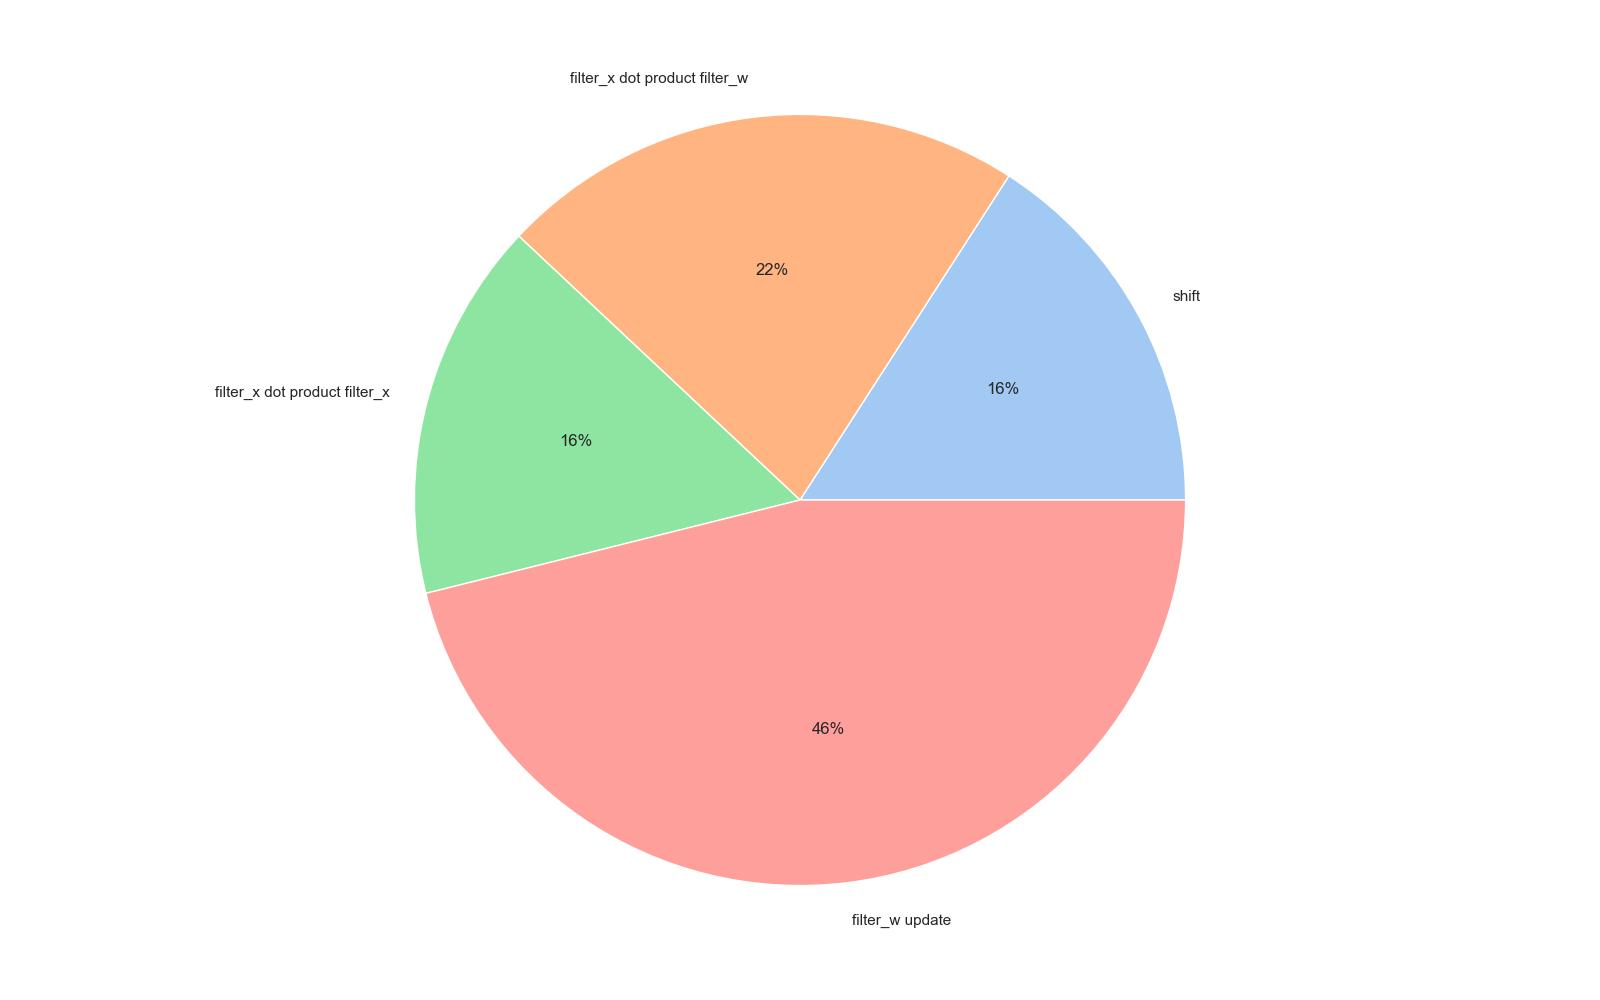
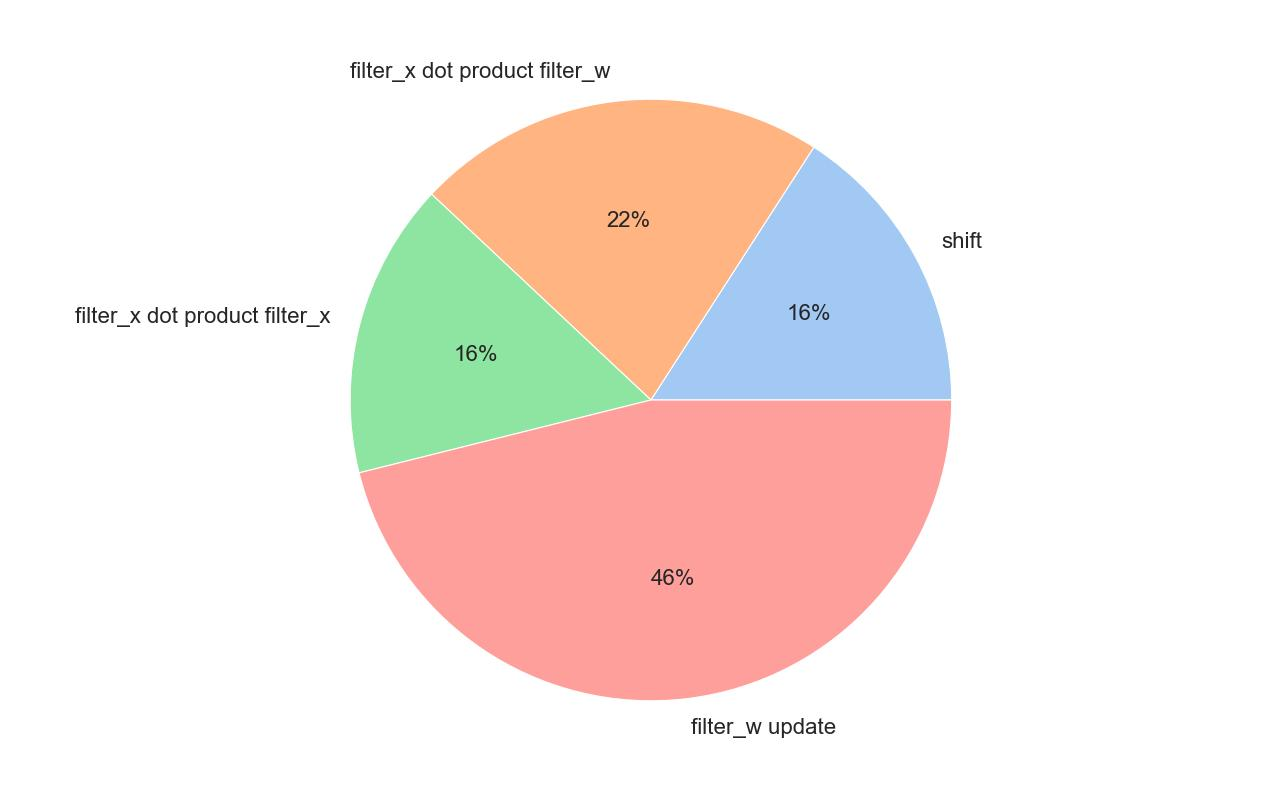
added block form analysis in python

diff --git a/AdaptiveFiltersPy/adaptive_filters_block_form_analysis.py b/AdaptiveFiltersPy/adaptive_filters_block_form_analysis.py
@@ -1,0 +1,106 @@
+"""
+Adaptive Filters Example
+========================
+
+In this example, we will run adaptive filters for system identification.
+"""
+from __future__ import division, print_function
+
+import time
+import os
+import numpy as np 
+from scipy.signal import fftconvolve
+import math
+import matplotlib.pyplot as plt
+import pyroomacoustics as pra
+import pandas as pd
+import seaborn as sns
+
+
+
+# parameters
+length = 16  # the unknown filter length
+n_samples = 2048  # the number of samples to run
+SNR = 15  # signal to noise ratio
+
+# the unknown filter (unit norm)
+w = np.random.randn(length)
+
+w /= np.linalg.norm(w)
+
+# create a known driving signal
+x = np.random.randn(n_samples)
+
+
+# convolve with the unknown filter
+d_clean = fftconvolve(x, w)[:n_samples]
+
+# add some noise to the reference signal
+d = d_clean + np.random.randn(n_samples) * 10 ** (-SNR / 20.0)
+
+batches = [1, 2, 4, 8, 32, 128, 256, 512, 1024, 2049]
+nlms_exec_times = []
+nlms_error = []
+rls_exec_times = []
+rls_error = []
+
+for b in batches:
+    filter=pra.adaptive.BlockLMS(length, mu=0.001, L=b, nlms=True)
+    error=np.zeros(n_samples)
+
+    start_time = time.time()
+
+    for i in range(n_samples):
+        filter.update(x[i], d[i])
+        error[i] = np.linalg.norm(filter.w - w)
+    nlms_exec_times.append(time.time() - start_time)
+    nlms_error.append(error[-1])
+
+    filter=pra.adaptive.BlockRLS(length, lmbd=1.0, delta=2.0, L=b)
+    error=np.zeros(n_samples)
+
+    for i in range(n_samples):
+        filter.update(x[i], d[i])
+        error[i] = np.linalg.norm(filter.w - w)
+    rls_exec_times.append(time.time() - start_time)
+    rls_error.append(error[-1])
+
+plots_folder = './graphs'
+df = pd.DataFrame({'batch_size': batches, 
+                    'exec_time': nlms_exec_times,
+                    'nlms_error': nlms_error})
+ax = sns.lineplot(data=df, x="batch_size", y="exec_time", palette='pastel')
+ax.set_title(f'Batch size vs Execution time (block nlms)')
+ax.set(xlabel='batch_size', ylabel='execution_time')
+
+plt.tight_layout()
+plt.savefig(os.path.join(plots_folder, 'block_nlms_execution_time_vs_batch_size.jpg'))
+plt.clf()
+
+ax = sns.lineplot(data=df, x="batch_size", y="nlms_error", palette='pastel')
+ax.set_title(f'Batch size vs Error (block nlms)')
+ax.set(xlabel='batch_size', ylabel='error')
+
+plt.tight_layout()
+plt.savefig(os.path.join(plots_folder, 'block_nlms_error_vs_batch_size.jpg'))
+plt.clf()
+
+df = pd.DataFrame({'batch_size': batches, 
+                    'exec_time': rls_exec_times,
+                    'rls_error': rls_error})
+ax = sns.lineplot(data=df, x="batch_size", y="exec_time", palette='pastel')
+ax.set_title(f'Batch size vs Execution time (block rls)')
+ax.set(xlabel='batch_size', ylabel='execution_time')
+
+plt.tight_layout()
+plt.savefig(os.path.join(plots_folder, 'block_rls_execution_time_vs_batch_size.jpg'))
+plt.clf()
+
+ax = sns.lineplot(data=df, x="batch_size", y="rls_error", palette='pastel')
+ax.set_title(f'Batch size vs Error (block rls)')
+ax.set(xlabel='batch_size', ylabel='error')
+
+plt.tight_layout()
+plt.savefig(os.path.join(plots_folder, 'block_rls_error_vs_batch_size.jpg'))
+plt.clf()
+

diff --git a/AdaptiveFiltersPy/adaptive_filters_copy.py b/AdaptiveFiltersPy/adaptive_filters_copy.py
@@ -37,8 +37,8 @@ d = [0.07122954389284161, -0.12552607712619263, -0.15183826595813738, 0.42737264
 
 # create a bunch adaptive filters
 #filter=pra.adaptive.RLS(length, lmbd=1.0, delta=2.0)
-filter=pra.adaptive.NLMS(length, mu=0.5)
-#filter=pra.adaptive.BlockLMS(length, mu=0.001, L=256, nlms=True)
+#filter=pra.adaptive.NLMS(length, mu=0.5)
+filter=pra.adaptive.BlockLMS(length, mu=0.001, L=8, nlms=True)
 #filter=pra.adaptive.BlockRLS(length, lmbd=1, delta=2.0, L=8)
 
 error=np.zeros(n_samples)
@@ -48,7 +48,7 @@ start_time = time.time()
 for i in range(n_samples):
     filter.update(x[i], d[i])
     error[i] = np.linalg.norm(filter.w - w)
-    
+
 print(f'Final error: {error[-1]}')
 print(f'Final filter weights: {filter.w}')
 print(f'Execution time: {time.time() - start_time}')

diff --git a/AdaptiveFiltersPy/data_visualization.py b/AdaptiveFiltersPy/data_visualization.py
@@ -1,8 +1,14 @@
 import os
-import matplotlib.pyplot as plt
 import pandas as pd
+import matplotlib.pyplot as plt
 import seaborn as sns
-sns.set(rc = {'figure.figsize':(16,10)})
+sns.set(rc={'figure.figsize':(16,10)})
+plt.figure(figsize=(16, 10), dpi=80)
+plt.rc('font', size=20)          # controls default text sizes
+plt.rc('xtick', labelsize=20)    # fontsize of the tick labels
+plt.rc('ytick', labelsize=20)    # fontsize of the tick labels
+
+
 plots_folder = './graphs'
 
 def print_bar_graph(df: pd.DataFrame,
@@ -22,9 +28,6 @@ def print_pie_graph(df: pd.DataFrame,
                     x_axis: str,
                     title: str,
                     file_name: str):
-
-    
-    plt.figure(figsize=(16, 10))
 
     #define data
     data = df.total_cycles

diff --git a/AdaptiveFiltersC/PerformanceMeasure.md b/AdaptiveFiltersC/PerformanceMeasure.md
@@ -83,3 +83,14 @@ Notice that when a portion of *update* is surrounded with performance counters, 
 |P update (element-wise sub and mult)|160-165|1541|1307|1540|0|0|0|231|
 |shift (plp_copy)|170|148|50|147|0|0|15|77|
 |shift (copy some values)|172-174|139|37|138|0|0|0|99|
+
+
+TO-DO:
+-riporta obiettivo progetto (studio filtri ANC)
+    -chiarire metodologie
+    -stima performance algoritmi per pulp
+-focus su implementazione 
+    -floating point, esecuzione su cluster
+    -diagrammi a blocchi + pseudocodice
+-conclusioni
+    -filtro + veloce? di quanto? confronto algoritmi
